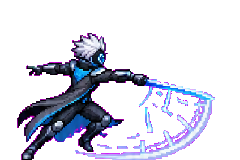
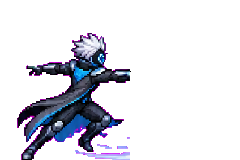
Remove projectile line artifacts

Changed region(s): [[0.525, 0.4375, 0.9042, 1.0], [0.525, 0.8125, 0.5833, 0.875]]

diff --git a/artifacts/cybergrid-strike-pre-evo/src/game/renderer.ts b/artifacts/cybergrid-strike-pre-evo/src/game/renderer.ts
@@ -829,35 +829,6 @@ function drawSkinProjectileEffect(
   ctx.shadowColor = config.color;
   ctx.shadowBlur = radius * 2.4;
 
-  // One attached tapered wake. Detached dots/parallel streaks read as extra
-  // projectiles at mobile scale, so the trail now grows directly from the
-  // projectile body and fades continuously behind it.
-  const trailLength = radius * (4.6 + config.motif * 0.24);
-  const trailWave = Math.sin(time + config.motif * 0.71) * radius * 0.22;
-  const trailGradient = ctx.createLinearGradient(-trailLength, 0, -radius * 0.4, 0);
-  trailGradient.addColorStop(0, 'rgba(0,0,0,0)');
-  trailGradient.addColorStop(0.52, config.color);
-  trailGradient.addColorStop(1, config.accent);
-  ctx.globalAlpha = 0.72;
-  ctx.fillStyle = trailGradient;
-  ctx.beginPath();
-  ctx.moveTo(-trailLength, trailWave);
-  ctx.quadraticCurveTo(
-    -trailLength * 0.48,
-    -radius * 0.36 + trailWave,
-    -radius * 0.35,
-    -radius * 0.5,
-  );
-  ctx.lineTo(-radius * 0.35, radius * 0.5);
-  ctx.quadraticCurveTo(
-    -trailLength * 0.48,
-    radius * 0.36 + trailWave,
-    -trailLength,
-    trailWave,
-  );
-  ctx.closePath();
-  ctx.fill();
-
   ctx.globalAlpha = 0.88;
   ctx.strokeStyle = config.color;
   ctx.fillStyle = config.accent;
@@ -1203,10 +1174,6 @@ export function draw(
       ctx.beginPath();
       ctx.arc(bx, by, energyRadius * 1.35, 0, Math.PI * 2);
       ctx.stroke();
-      ctx.beginPath();
-      ctx.moveTo(bx - direction * energyRadius * 3.2, by);
-      ctx.lineTo(bx - direction * energyRadius * 1.15, by);
-      ctx.stroke();
     } else {
       // A compact physical projectile with a metal nose, casing and tracer.
       ctx.translate(bx, by);
@@ -1222,12 +1189,6 @@ export function draw(
       ctx.lineTo(radius * 0.85, radius * 0.46);
       ctx.closePath();
       ctx.fill();
-      ctx.strokeStyle = b.pierce ? 'rgba(192,132,252,0.55)' : 'rgba(253,224,71,0.55)';
-      ctx.lineWidth = Math.max(1.5, radius * 0.35);
-      ctx.beginPath();
-      ctx.moveTo(-radius * 3.4, 0);
-      ctx.lineTo(-radius * 1.35, 0);
-      ctx.stroke();
     }
     ctx.restore();
     drawSkinProjectileEffect(ctx, bx, by, radius, direction, b.effectSkin);

diff --git a/artifacts/cybergrid-strike-pre-evo/src/components/Game.tsx b/artifacts/cybergrid-strike-pre-evo/src/components/Game.tsx
@@ -3762,22 +3762,6 @@ export default function Game() {
             loadBitmap(`${base}skins/skill-${playerSkin}-idle.png`),
             loadBitmap(`${base}skins/skill-${playerSkin}-attack.png`),
           ]);
-          if (playerSkin === 'chrono') {
-            // The authored Chrono attack sheet includes a wide clock-blade
-            // extension whose inner ribs collapse into three detached cyan
-            // lines at gameplay scale. Keep the committed body/weapon pose;
-            // the contextual projectile renderer supplies the connected
-            // temporal release without those misleading extra marks.
-            const attackCrop = await createImageBitmap(
-              rawAttack,
-              0,
-              0,
-              Math.round(rawAttack.width * 158 / 240),
-              rawAttack.height,
-            );
-            rawAttack.close();
-            rawAttack = attackCrop;
-          }
           if (playerSkin === 'hijack') {
             const idleCrop = await createImageBitmap(
               rawIdle,
